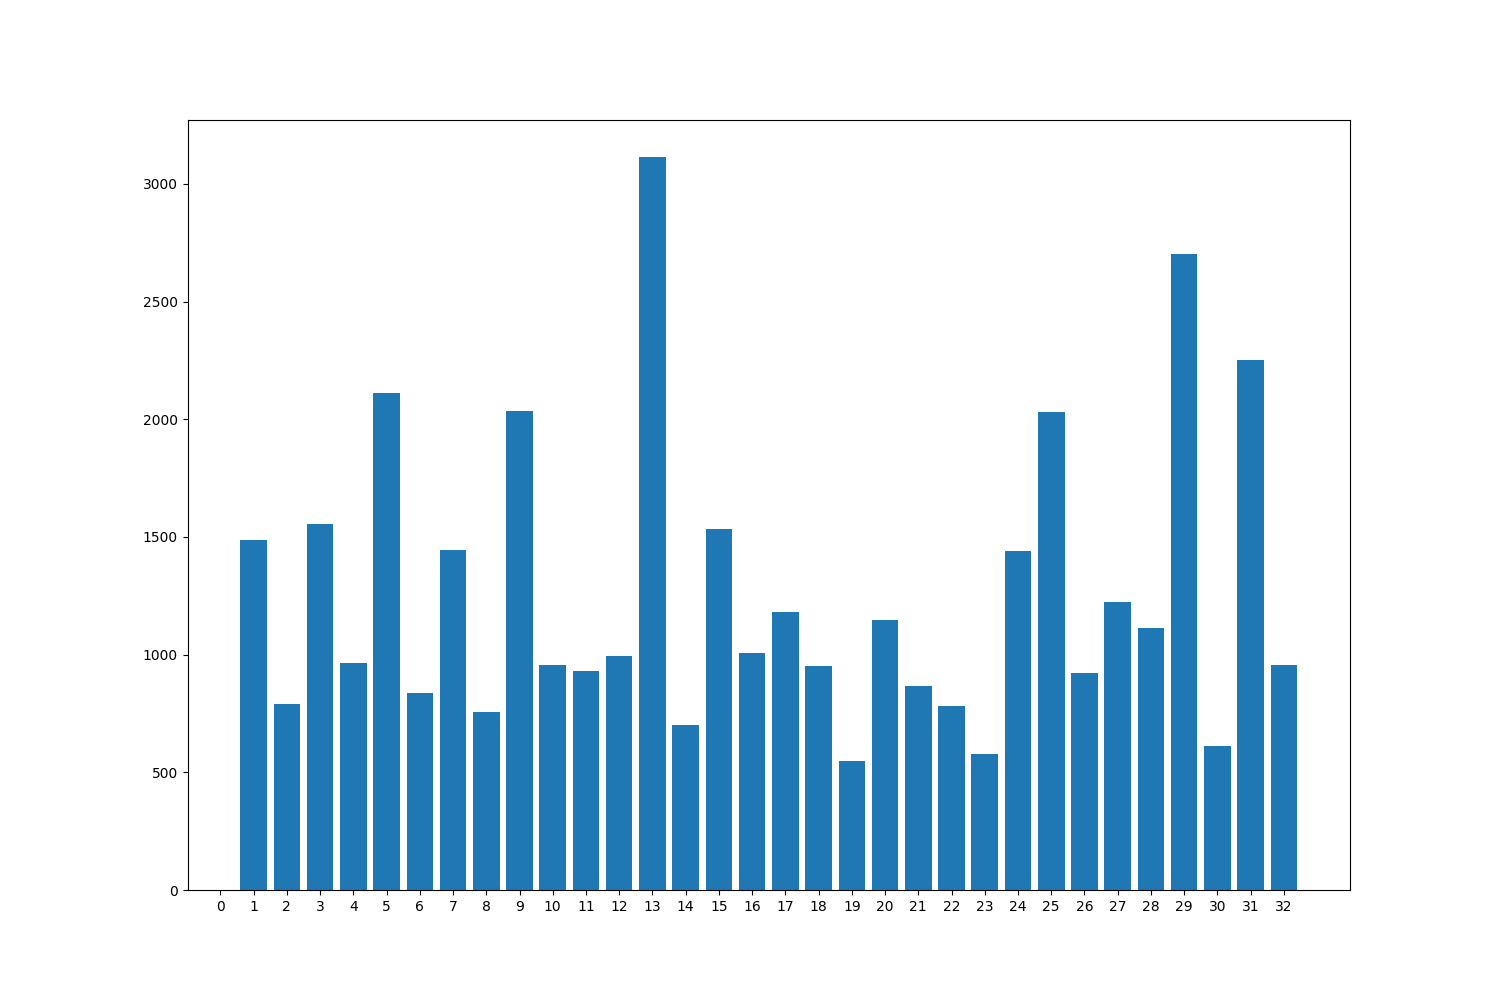
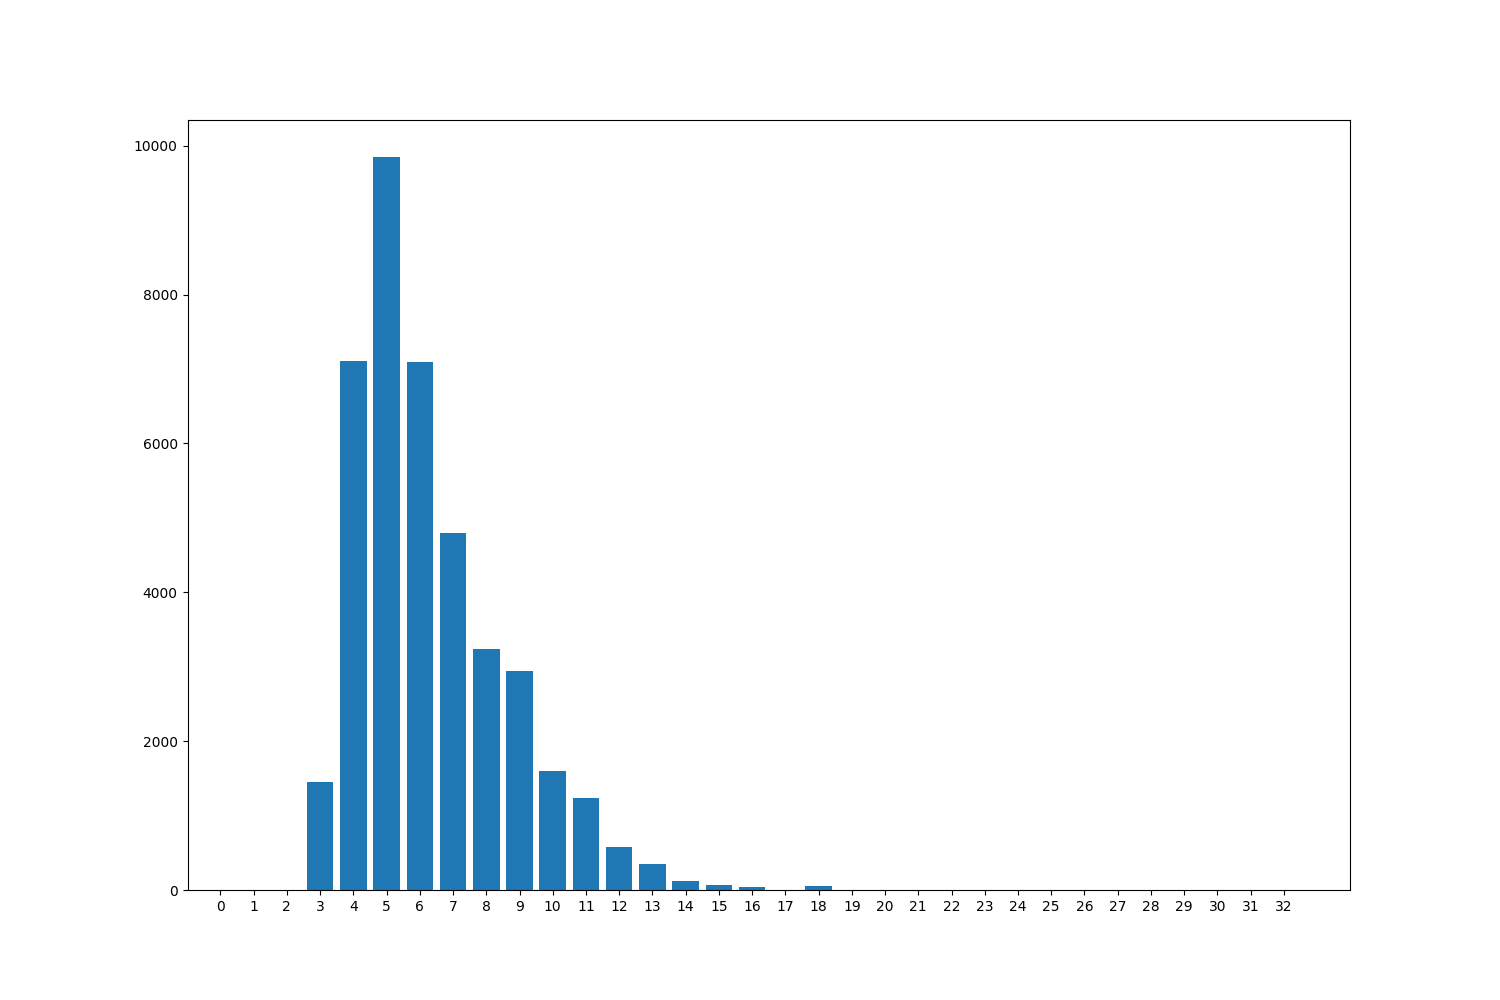
Added new hash, fixed bugs.
- Added crc32 hashfunction.

diff --git a/hashtable/hashtable.cpp b/hashtable/hashtable.cpp
@@ -1,6 +1,8 @@
 #include <assert.h>
 #include <stdio.h>
 #include <stdlib.h>
+#include <string.h>
+#include <time.h>
 
 #include "hashtable.h"
 
@@ -16,7 +18,7 @@ int write_lists_sizes_in_file (list_t *hashtable, const char *file_name)
         }
         char buf[HASHTABLE_SIZE * 16] = {'\0'};
         size_t n_wr_chars = 0;
-        size_t buf_size = 0;
+        size_t buf_size   = 0;
 
         for (size_t i = 0; i < HASHTABLE_SIZE; i++) {
                 sprintf(buf + buf_size, "%ld %ln", hashtable[i].size, &n_wr_chars);
@@ -56,11 +58,54 @@ int call_choosed_hash_words (text_t *text, list_t *hashtable, char hash_mode)
         case '6':
                 hash_words(text, hashtable, get_ror_hash);
                 break;
-        default:
+        case '7':
                 hash_words(text, hashtable, get_my_hash);
-                return 0;
+                break;
+        default:
+                hash_words(text, hashtable, get_crc32_hash);
         }
         return 0;
+}
+
+int find_elem (list_t *hashtable, word_t *word, size_t (*get_word_hash)(word_t*))
+{
+        assert(hashtable);
+        assert(word);
+
+        size_t hash = get_word_hash(word);
+        if (hash >= HASHTABLE_SIZE) {
+                log(1, "HASH IS TOO BIG.");
+                hash = hash % HASHTABLE_SIZE;
+        }
+
+        clock_t start_time = clock();
+
+        if (!find_word_in_list(hashtable + hash, word, 1))
+                printf("No such word.\n");
+
+        clock_t end_time = clock();
+
+        float delta = 1000.f * (float) (end_time - start_time) / CLOCKS_PER_SEC;
+        printf("Time to find \"%s\" was %.4f ms.\n", word->ptr, delta);
+
+        return 0;
+}
+
+bool find_word_in_list (list_t *list, word_t *word, size_t position)
+{
+        assert(list);
+        assert(word);
+
+        if (list->size == 0)
+                return false;
+
+        if (!strcmp((char*) list->data[position].data, word->ptr)) {
+                return true;
+        } else if (list->data[position].next != 0) {
+                return find_word_in_list(list, word, list->data[position].next);
+        }
+
+        return false;
 }
 
 int hash_words (text_t *text, list_t *hashtable, size_t (*get_word_hash)(word_t*))
@@ -149,4 +194,25 @@ size_t get_my_hash (word_t *word)
         }
 
         return hash;
+}
+
+size_t get_crc32_hash (word_t *word)
+{
+        assert(word);
+
+        int hash = 0xFFFFFFFF;
+        int bit = 0;
+
+        for (size_t i = 0; i < word->length; i++) {
+                char c = word->ptr[i];
+                for (size_t j = 0; j < 8; j++) {
+                        bit = (c ^ hash) & 1;
+                        hash >>= 1;
+
+                        if (bit)
+                                hash = hash ^ 0xEDB88320;
+                        c >>= 1;
+                }
+        }
+        return ~hash;
 }

diff --git a/hashtable/hashtable.h b/hashtable/hashtable.h
@@ -10,13 +10,18 @@ enum hash_errors {
 
 int    write_lists_sizes_in_file (list_t *hashtable, const char *file_name);
 int    call_choosed_hash_words   (text_t *text, list_t *hashtable, char hash_mode);
+
+int  find_elem         (list_t *hashtable, word_t *word, size_t (*get_word_hash)(word_t*));
+bool find_word_in_list (list_t *list, word_t *word, size_t position);
 int    hash_words                (text_t *text, list_t *hashtable, size_t (*get_word_hash)(word_t*));
-size_t get_one_hash              (word_t *word);
-size_t get_ascii_hash            (word_t *word);
-size_t get_length_hash           (word_t *word);
-size_t get_sum_ascii_hash        (word_t *word);
-size_t get_rol_hash              (word_t *word);
-size_t get_ror_hash              (word_t *word);
-size_t get_my_hash               (word_t *word);
+
+size_t get_one_hash       (word_t *word);
+size_t get_ascii_hash     (word_t *word);
+size_t get_length_hash    (word_t *word);
+size_t get_sum_ascii_hash (word_t *word);
+size_t get_rol_hash       (word_t *word);
+size_t get_ror_hash       (word_t *word);
+size_t get_my_hash        (word_t *word);
+size_t get_crc32_hash     (word_t *word);
 
 #endif /*HASHTABLE_H*/

diff --git a/list/list_dump.cpp b/list/list_dump.cpp
@@ -102,7 +102,7 @@ void print_gv_nodes (list_t *list)
         assert(list);
 
         for (size_t i = 1; i < list->size; i++) {
-                // printf("list = %ld; elem = %ld\n", n, i);
+                // printf("elem = %ld, next = %ld\n", i, list->data[i].next);
                 gv_print(node_atr_sample, list->data + i, list->data_atr.shape, list->data_atr.style, list->data_atr.height,
                 list->data_atr.width, list->data_atr.fixedsize, list->data_atr.fillcolor,list->data_atr.fontsize,
                 list->data_atr.penwidth);
@@ -117,7 +117,7 @@ void tie_gv_nodes (list_t *list)
         assert(list);
 
         for (size_t i = 1; i < list->size; i++) {
-                gv_print(nodes_tie_atr, list->data + i, list->data + list->data[i].next, "black", list->data_atr.arrowsize, list->data_atr.penwidth);
+                gv_print(nodes_tie_atr, list->data + i, list->data + list->data[i].next + 1, "black", list->data_atr.arrowsize, list->data_atr.penwidth);
                 gv_print(nodes_tie_atr, list->data + i, list->data + list->data[i].prev, "red", list->data_atr.arrowsize, list->data_atr.penwidth);
         }
 }

diff --git a/main.cpp b/main.cpp
@@ -30,9 +30,12 @@ int main (int argc, char *argv[])
         else
                 hash_mode = *argv[1];
         call_choosed_hash_words(&text, hashtable, hash_mode);
-        write_lists_sizes_in_file(hashtable, "graphics/one.txt");
+        write_lists_sizes_in_file(hashtable, "graphics/crc32.txt");
 
-        list_graph(hashtable, "list_graph.dot", "list");
+        // list_graph(hashtable, "list_graph.dot", "list");
+
+        word_t my_word = {"coffee", 7};
+        find_elem(hashtable, &my_word, get_crc32_hash);
 
         text_dtor(&text);
 

diff --git a/text.cpp b/text.cpp
@@ -111,7 +111,7 @@ void divide_text_on_words (text_t *text)
                 assert(words);
         }
         text->words = words;
-        for (size_t i = 0, n = 0; i < text->n_chars; i++)      {
+        for (size_t i = 0, n = 0; i < text->n_chars; i++) {
                 if (*buf != '\0') {
                         words[n].ptr = buf;
                         while (*buf != '\0') {

diff --git a/graphics/graph.py b/graphics/graph.py
@@ -1,7 +1,7 @@
 import matplotlib.pyplot as plt
 import numpy as np
 
-hash_files = ["one", "ascii", "length", "ascii_sum", "rol", "ror", "my_hash"]
+hash_files = ["one", "ascii", "length", "ascii_sum", "rol", "ror", "my_hash", "crc32"]
 
 for n in range(len(hash_files)):
         file_string = "graphics/" + hash_files[n] + ".txt"
